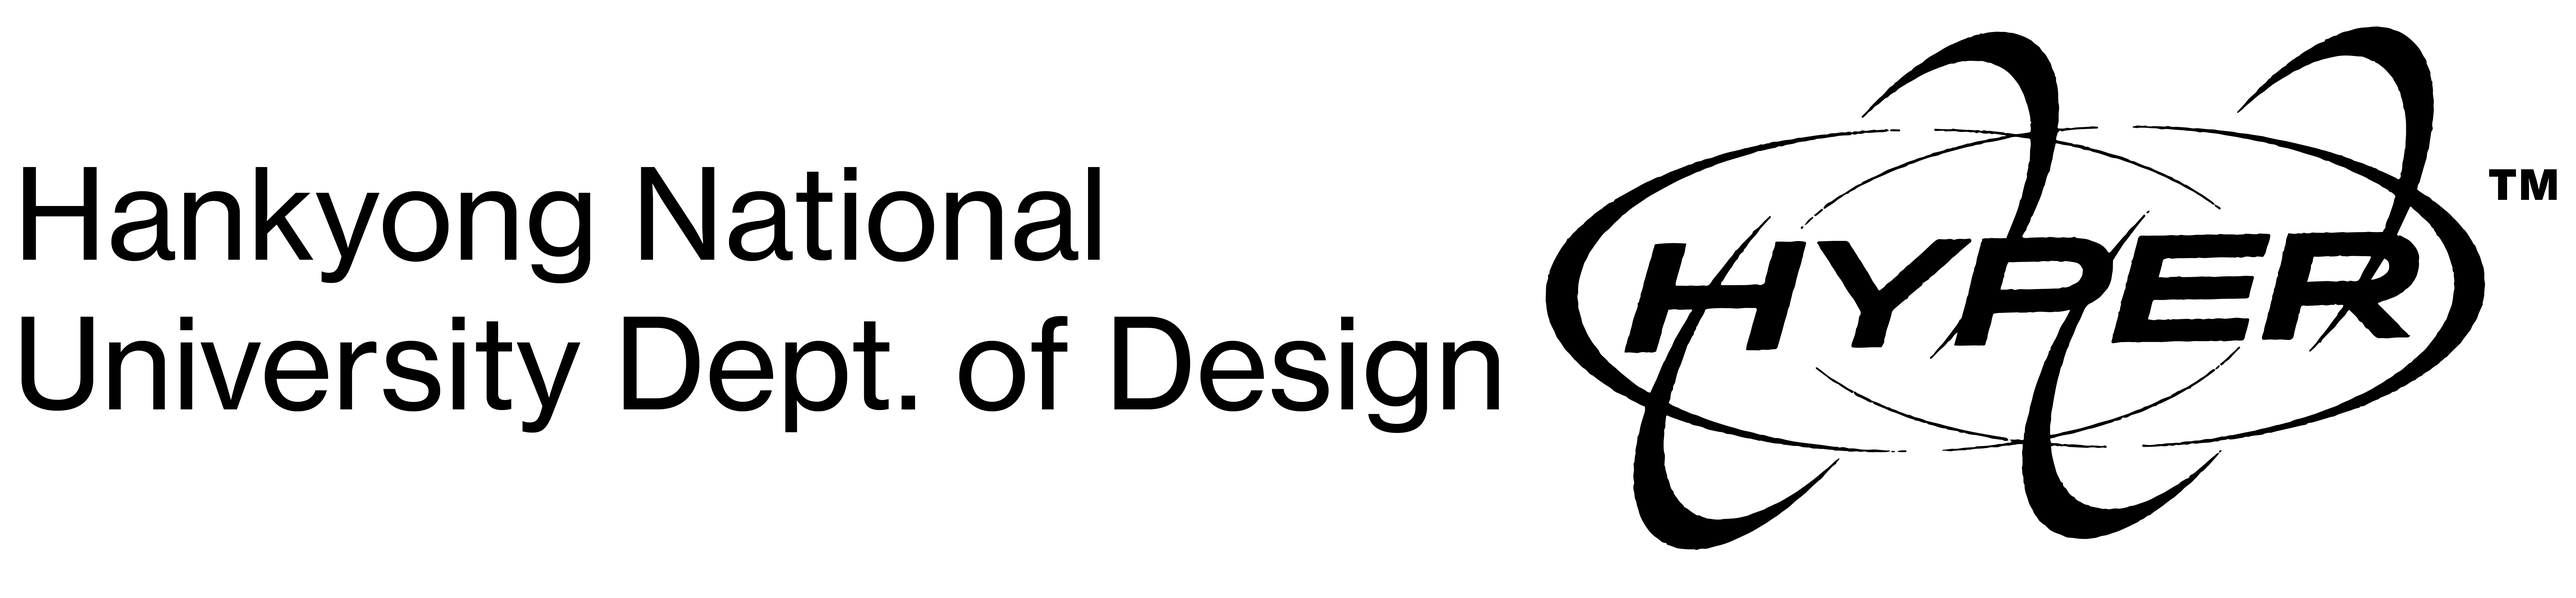
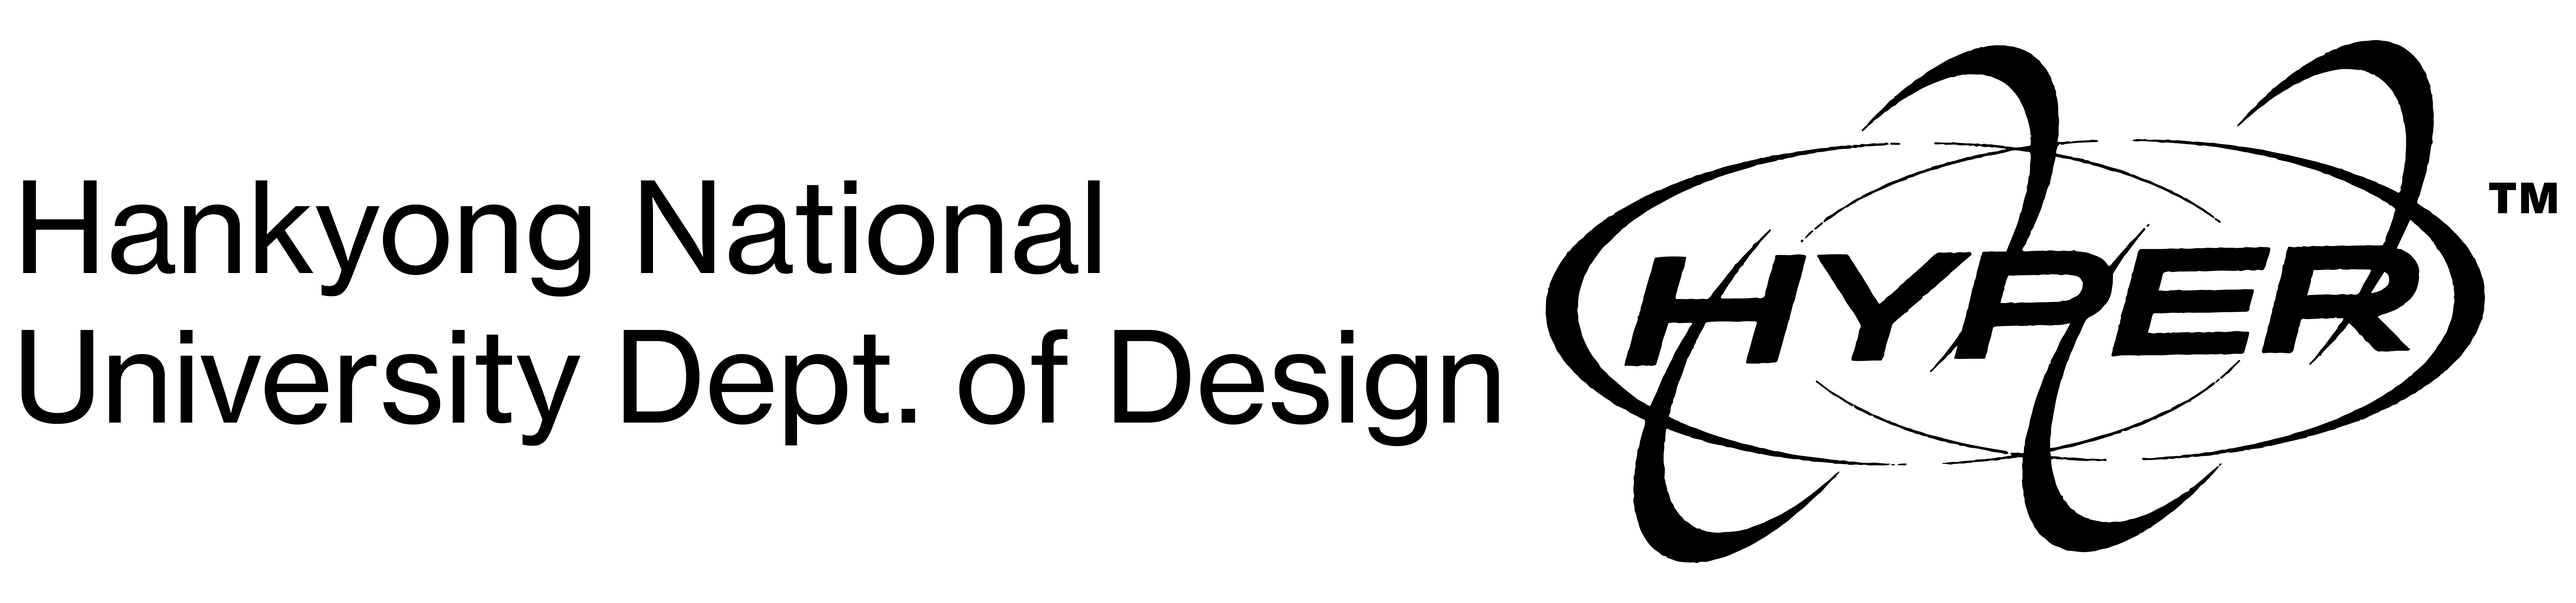
https://github.com/twbs/bootstrap.git

diff --git a/css/style.css b/css/style.css
@@ -439,7 +439,6 @@ z-index: 2;}
 .left17 {margin-right: 9em;}
 .Hankyong {display: flex; margin-top: 0.3em;line-height: 5em; justify-content: space-between; width: 100%; margin-bottom: 150px;}
 .Hankyong p {font-size: 3.8em;}
-.Hankyong img {width: 20%;  bottom: 2em; margin-right: 2em;}
 .aboutflex{display: flex; margin-left: 1em; margin-top: 3em; justify-content: space-between;}
 .aboutp {font-size: 3.8em; margin-left: 0.3em;}
 .flexbox1 {width: 49%;}
@@ -563,7 +562,6 @@ z-index: 2;}
 .left17 {margin-right: 9em;}
 .Hankyong {display: flex; margin-top: 0.3em; line-height: 6em; justify-content: space-between; width: 100%; margin-bottom: 150px;}
 .Hankyong p {font-size: 4.8em;}
-.Hankyong img {width: 20%;  bottom: 2em; margin-right: 2em;}
 .aboutflex{display: flex; margin-left: 1em; margin-top: 3em; justify-content: space-between;}
 .aboutp {font-size: 5.8em; margin-left: 0.3em;}
 .flexbox1 {width: 49%;}
